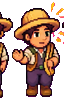
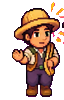
C5 P5: art_audit edge-blob scan (cut tops, neighbour slivers, --bleed), villager slivers cleared, broken villager cells skipped; npc_anim_test in check.sh
Claude-Session: https://claude.ai/code/session_013g54opDJbSzBZ1hF4NWyGa

Changed region(s): [[0.0, 0.42, 0.1562, 0.99], [0.0, 0.12, 0.2188, 0.39]]

diff --git a/tools/art_audit.py b/tools/art_audit.py
@@ -3,15 +3,52 @@
 Flags frames whose height, width or feet line differ a lot from the strip's
 median (a cell that caught a neighbour, an effect, or a wrong split), strips
 with a single frame where the name implies motion, and characters whose idle
-and walk heights disagree (scale mismatch). Prints a report; --fix normalises
-the feet line of every frame to the strip's median (shifts frames vertically)."""
+and walk heights disagree (scale mismatch). Edge-blob scan (C5): a figure
+touching the top of its cell (cut off by the slice) and detached bits on a
+cell's left/right edge (a neighbour bleeding in) are reported. Prints a report;
+--fix normalises the feet line of every frame to the strip's median (shifts
+frames vertically); with --bleed too it also clears the bleeding edge bits
+(review first: a detached tool head can touch a cell edge)."""
 import json, os, sys, glob
 import numpy as np
 from PIL import Image
+from scipy import ndimage
+
+
+def edge_blobs(cell):
+    """(cut_top, bleed_mask) for one cell's alpha mask: cut_top when the main
+    figure runs along the top row (a slice that cut the head off); bleed_mask
+    marks detached islands under 15% of the main piece that touch the cell's
+    left or right edge (the next figure's sliver)."""
+    lab, n = ndimage.label(cell, structure=np.ones((3, 3)))
+    bleed = np.zeros_like(cell)
+    if n == 0:
+        return False, bleed
+    sz = ndimage.sum(cell, lab, range(1, n + 1))
+    big = int(np.argmax(sz)) + 1
+    # Every strip is cropped to its tallest frame, so a head touching the top
+    # row is normal; a slice cut leaves a flat, wide edge (row 0 about as wide
+    # as row 2 and a good share of the figure's width).
+    fig = lab == big
+    xs = np.nonzero(fig.any(axis=0))[0]
+    fw = (xs.max() - xs.min() + 1) if len(xs) else 1
+    r0, r2 = fig[0].sum(), fig[min(2, fig.shape[0] - 1)].sum()
+    cut = r0 >= max(6, 0.4 * fw) and r0 >= 0.75 * r2
+    w = cell.shape[1]
+    for i, sl in enumerate(ndimage.find_objects(lab)):
+        if i + 1 == big or sl is None:
+            continue
+        # A neighbour's sliver: a narrow, tall-ish piece standing on the side
+        # edge (sparkles, rain, notes and shiver lines are small or not on the edge).
+        bw, bh = sl[1].stop - sl[1].start, sl[0].stop - sl[0].start
+        if sz[i] < 0.15 * sz[big - 1] and (sl[1].start <= 1 or sl[1].stop >= w - 1) and bw <= 0.25 * w and bh >= 0.2 * cell.shape[0]:
+            bleed |= lab == i + 1
+    return bool(cut), bleed
 
 MOTION = {"walk", "run", "swim", "ride", "attack", "powerup", "hoe_down", "axe_down", "pickaxe_down", "water_down", "cast_right", "walk_up", "walk_down", "dive", "surface", "swim_fast"}
 m = json.load(open("art/gen/manifest.json"))
 fix = "--fix" in sys.argv
+clear_bleed = "--bleed" in sys.argv
 only = [a for a in sys.argv[1:] if not a.startswith("--")]
 issues = []
 changed = False
@@ -41,6 +78,16 @@ for key in sorted(k for k in m if k.startswith("characters/")):
         cw, ch = dims
         a = np.array(im)[..., 3] > 30
         boxes = []
+        bleeds = {}
+        for i in range(n):
+            cut, bl = edge_blobs(a[:, i * cw:(i + 1) * cw])
+            if cut and name not in ("umbrella", "fish"):  # umbrella tops / rods may reach the edge
+                issues.append((cid, name, "frame %d cut off at the top" % i))
+            if bl.any():
+                issues.append((cid, name, "frame %d neighbour bleed (%d px)" % (i, int(bl.sum()))))
+                if clear_bleed:
+                    bleeds[i] = bl
+                    a[:, i * cw:(i + 1) * cw] &= ~bl
         for i in range(n):
             cell = a[:, i * cw:(i + 1) * cw]
             ys, xs = np.where(cell)
@@ -74,6 +121,10 @@ for key in sorted(k for k in m if k.startswith("characters/")):
             for j, i in enumerate(keep):
                 b = boxes[i]
                 cell = im.crop((i * cw, 0, (i + 1) * cw, ch))
+                if i in bleeds:
+                    ca = np.array(cell)
+                    ca[bleeds[i]] = 0
+                    cell = Image.fromarray(ca)
                 dy = max(-b[1], int(mf - b[3]))
                 out.paste(cell, (j * cw, dy), cell)
             _p = "art/gen/%s/%s.png" % (key, name)
